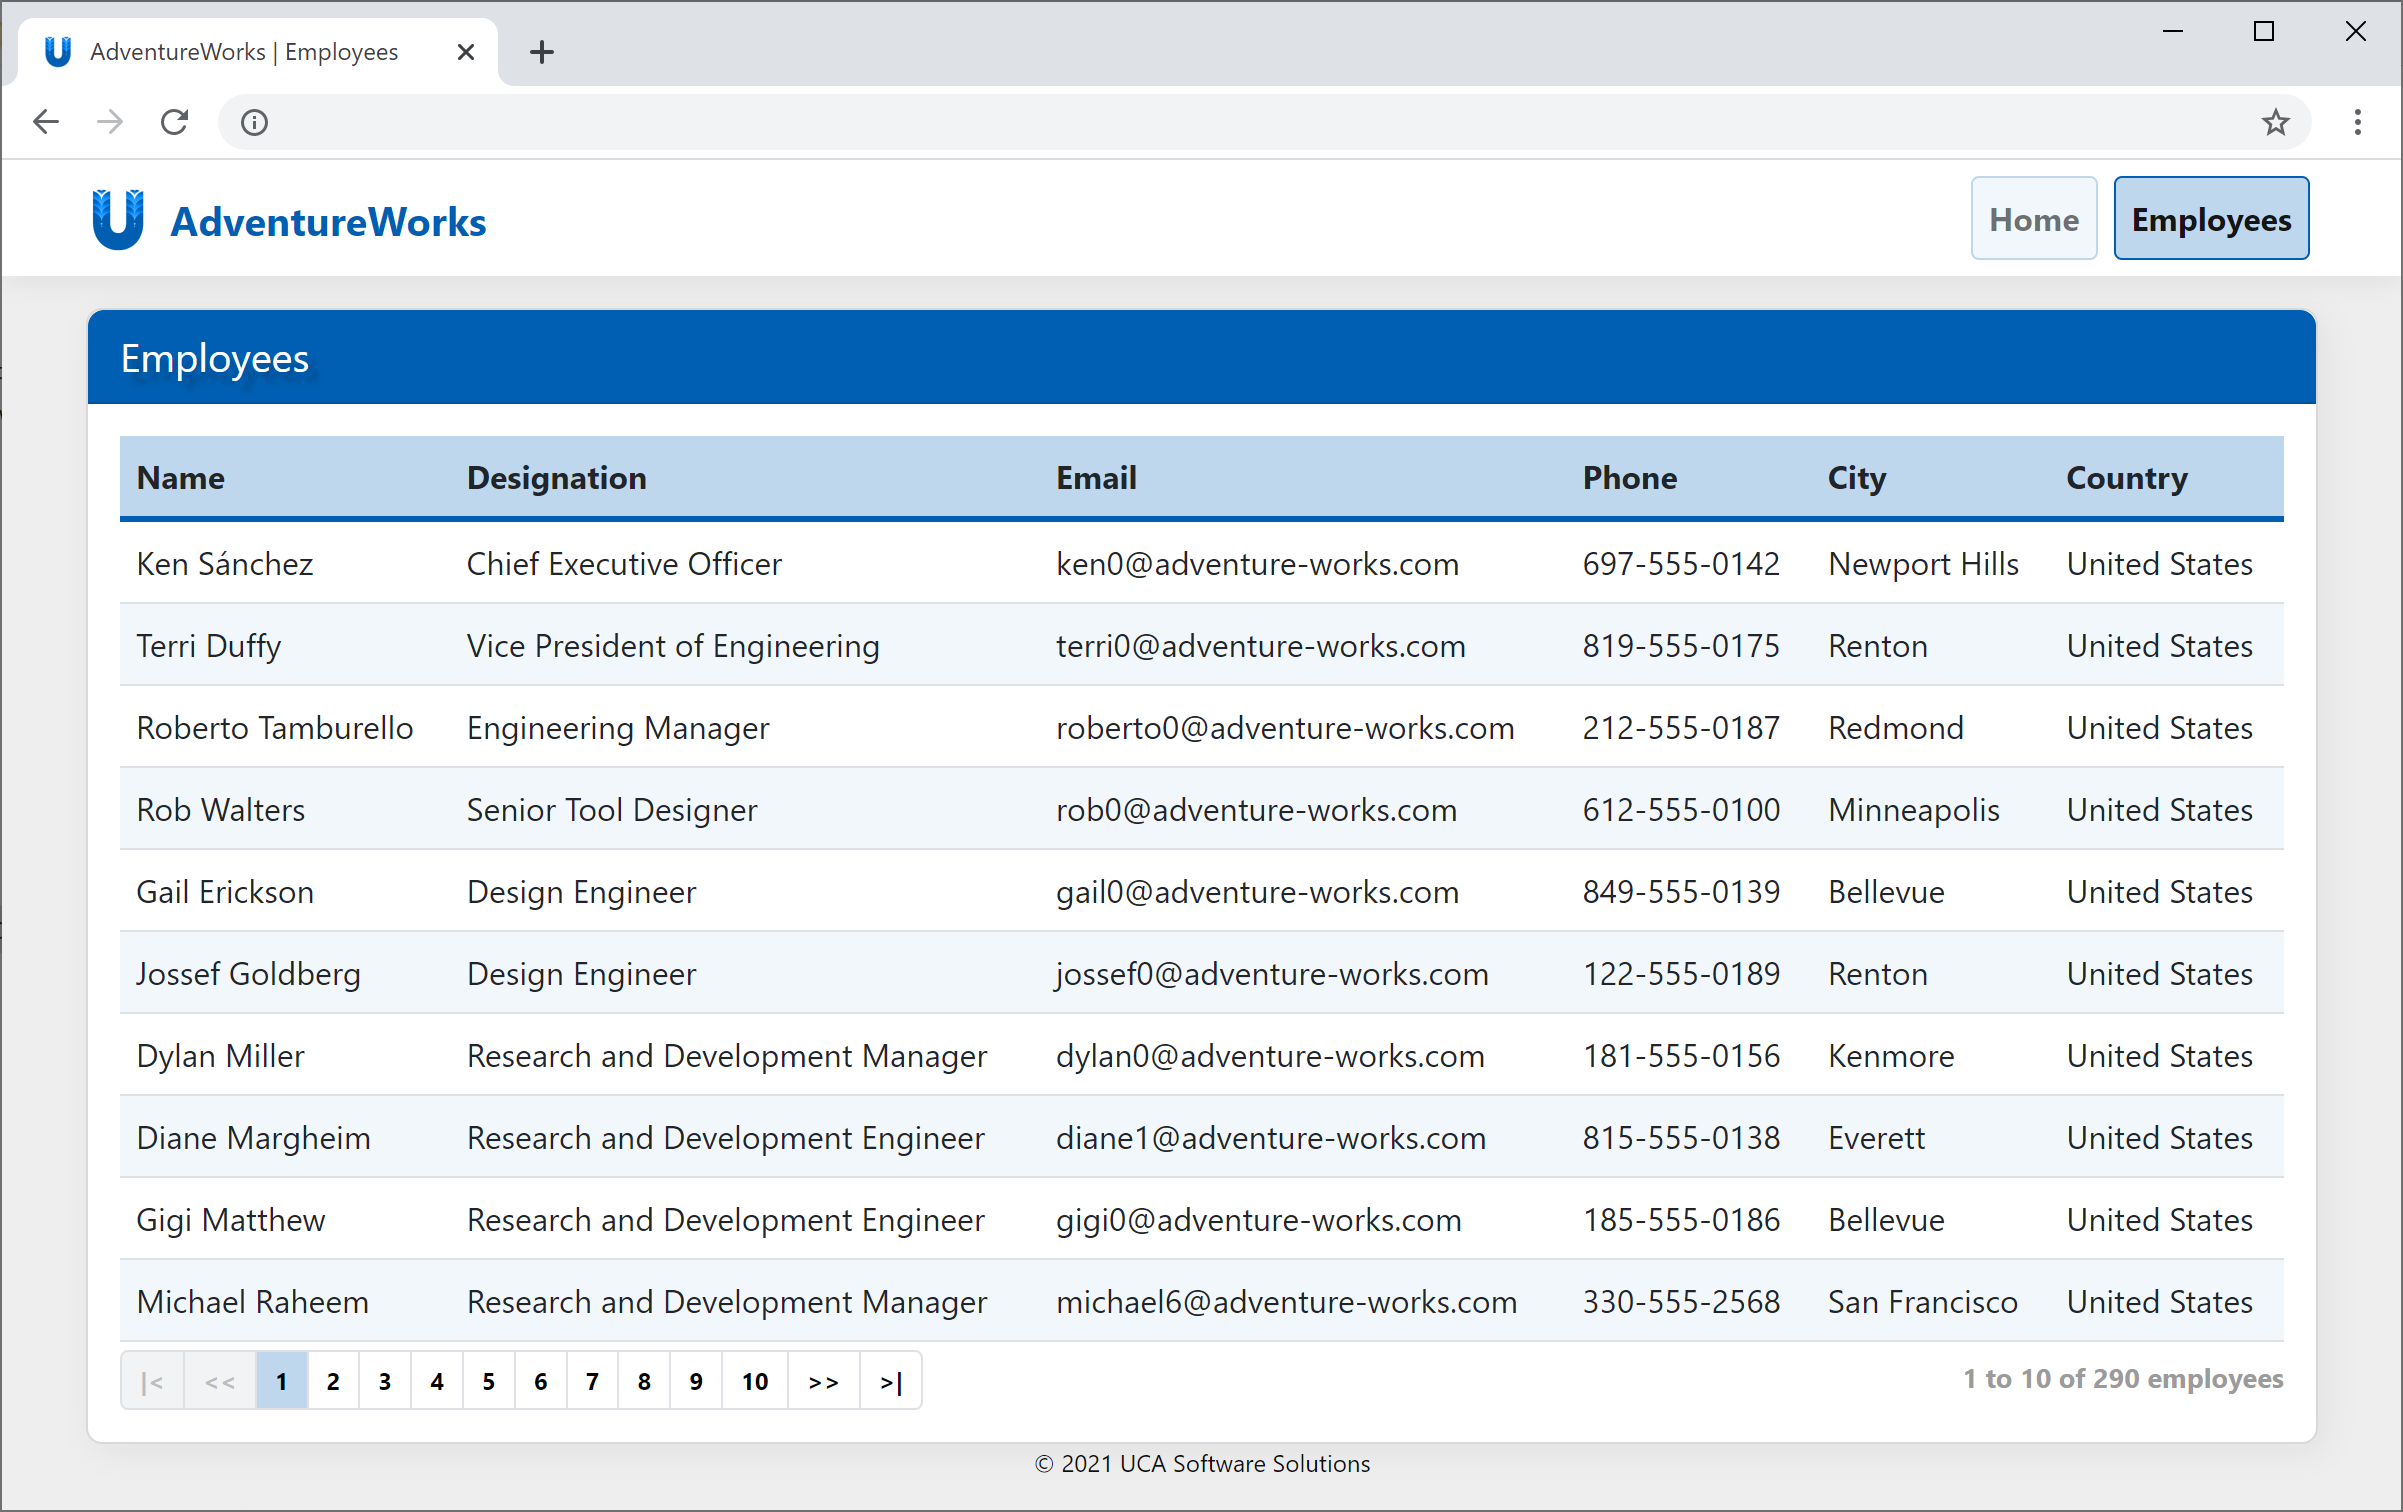
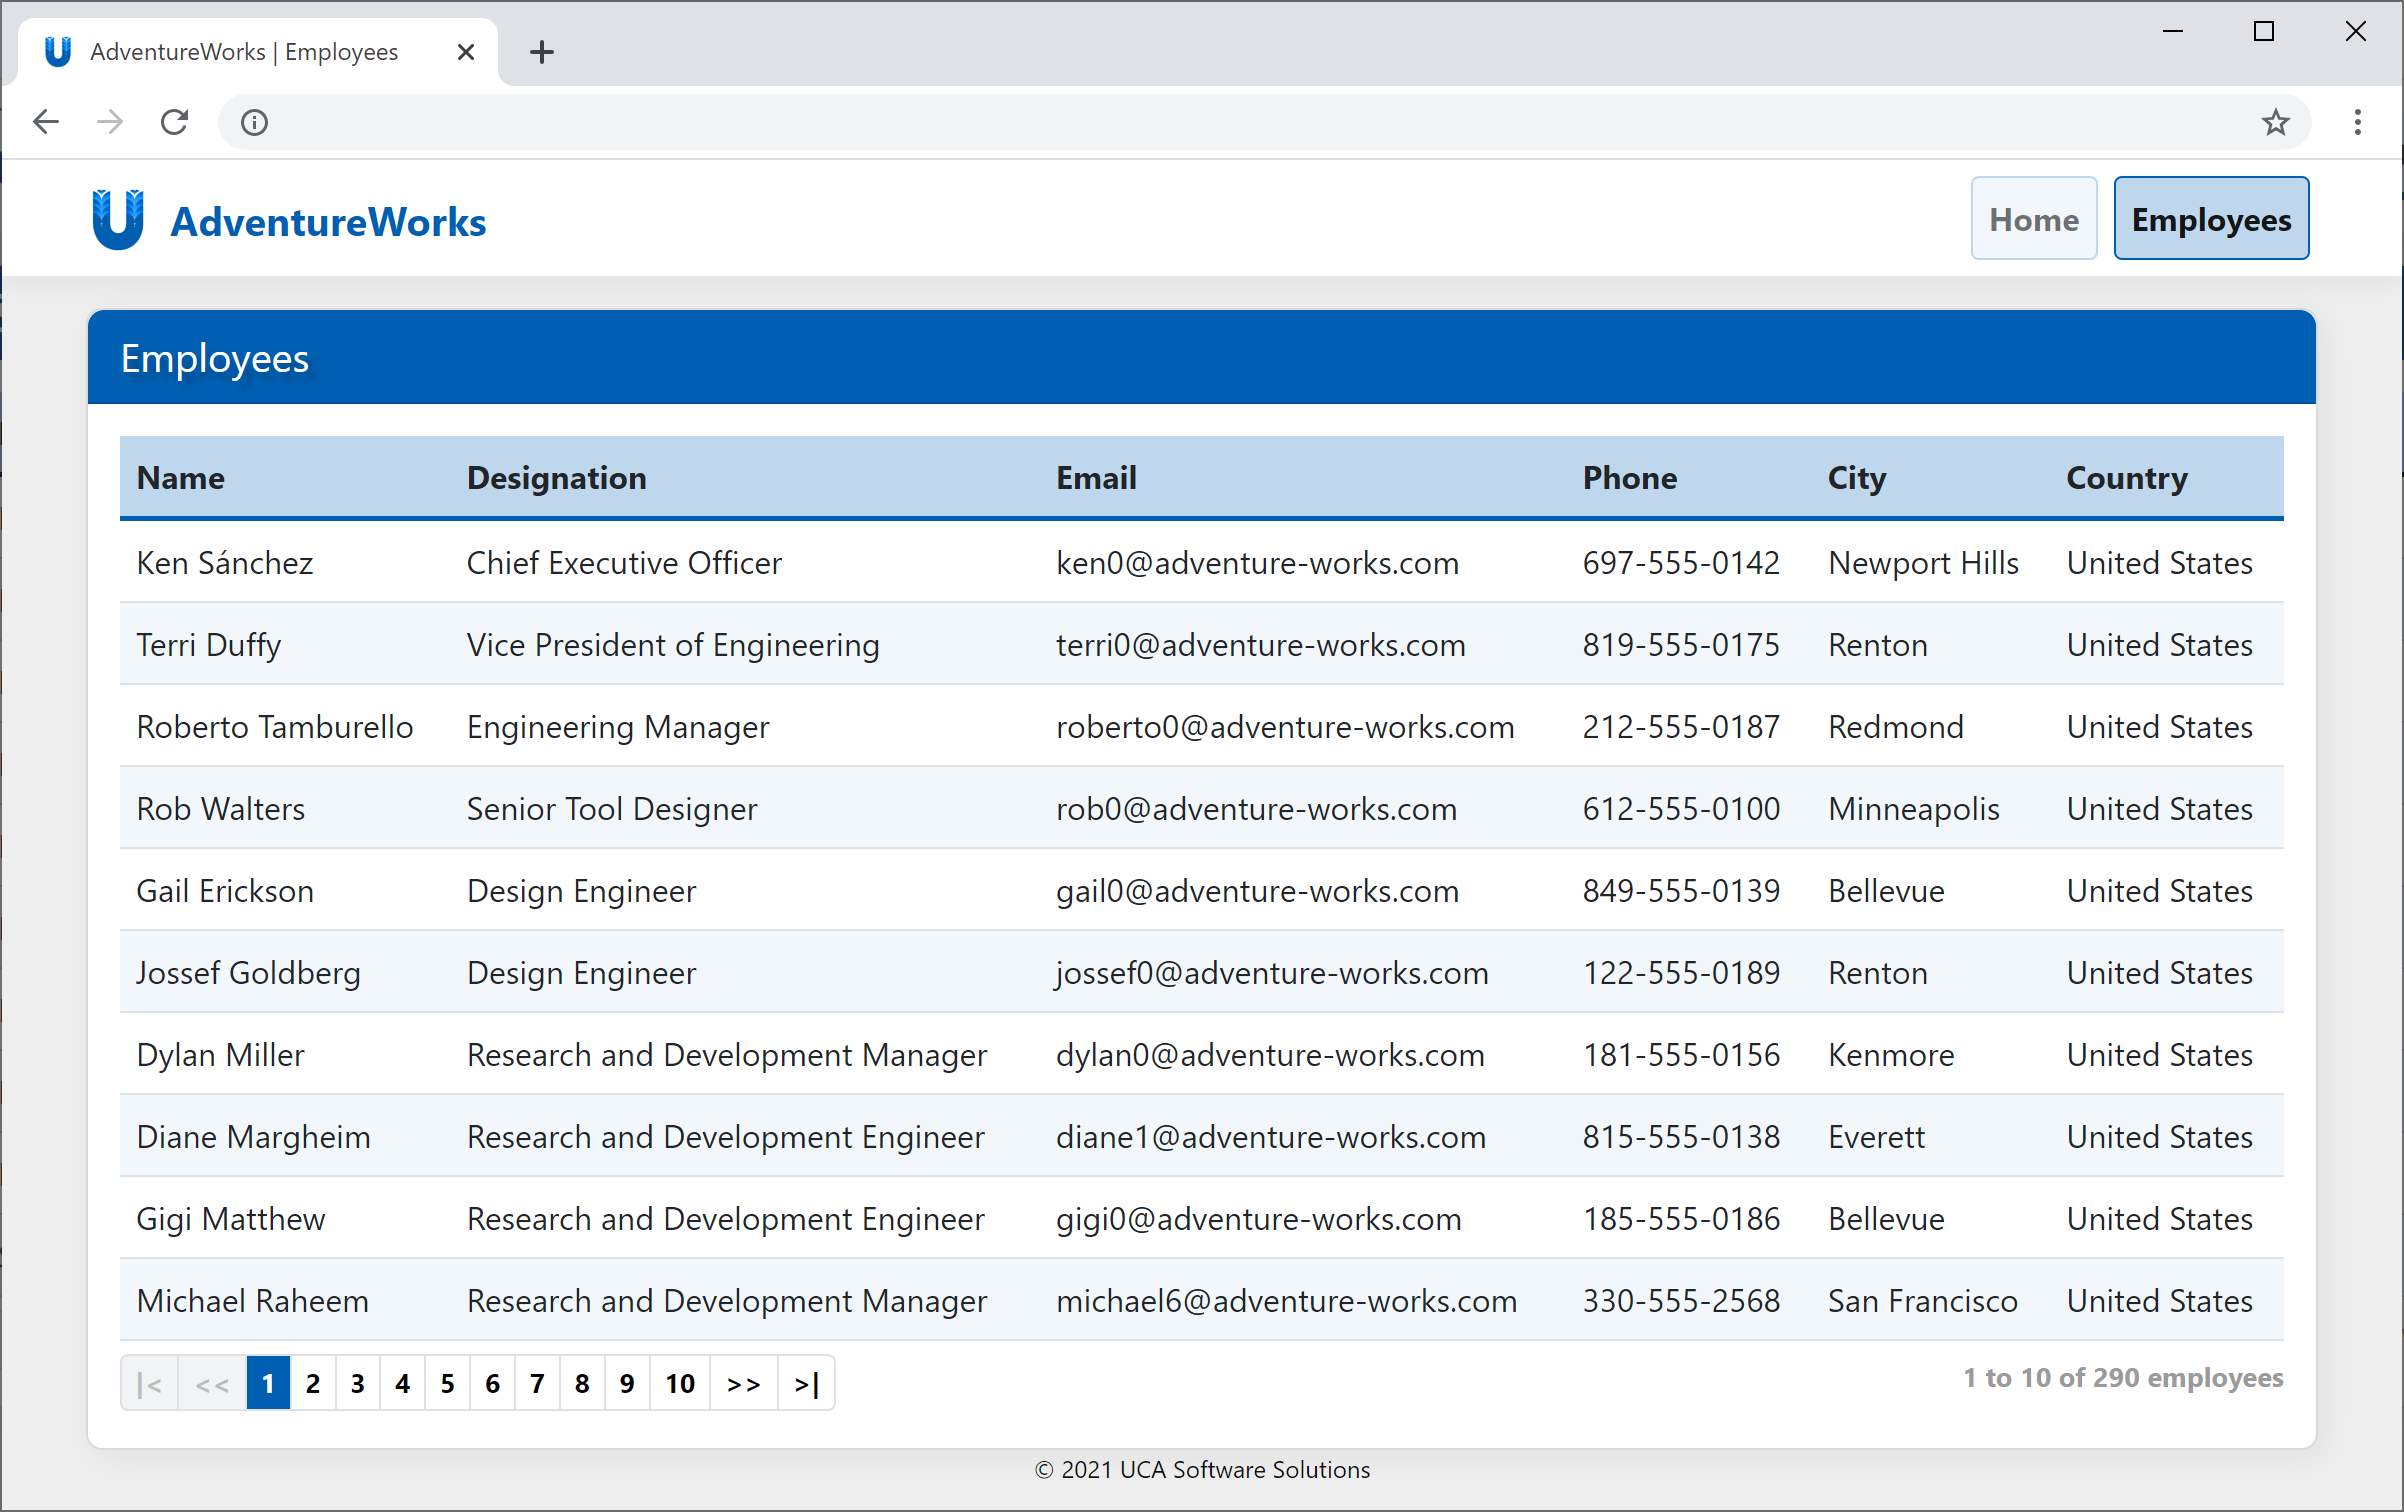
Style updates
CSS Style updates

diff --git a/src/AdventureWorks.Web/ClientApp/src/custom.css b/src/AdventureWorks.Web/ClientApp/src/custom.css
@@ -30,6 +30,7 @@
     --font-weight-semi: normal;
     --size-none: 0;
     --size-min: .15em;
+    --size-near-quart: .2em;
     --size-quart: .25em;
     --size-near-half: .4em;
     --size-half: .5em;
@@ -104,7 +105,7 @@ code {
 
         .contents .card-site .card-header:first-child {
             border-radius: var(--size-near-half) var(--size-near-half) var(--size-none) var(--size-none);
-            text-shadow: var(--size-quart) var(--size-quart) var(--size-min) var(--color-text-shadow);
+            text-shadow: var(--size-near-quart) var(--size-near-quart) var(--size-min) var(--color-text-shadow);
         }
 
     .contents .card-site .card-body {
@@ -128,22 +129,20 @@ code {
 
     .contents .table-site thead tr {
         background-color: var(--color-site-main-medium);
-        border-bottom: .2em solid var(--color-site-main-dark);
+        border-bottom: var(--size-min) solid var(--color-site-main-dark);
     }
 
     .contents .table-site tbody tr:nth-of-type(odd) {
-        background-color: var(--color-white) !important;
+        background-color: var(--color-white);
     }
 
     .contents .table-site tbody tr:nth-of-type(even) {
-        background-color: var(--color-site-main-light) !important;
+        background-color: var(--color-site-main-light);
     }
 
 .contents .pagination-site {
     float: left;
-    font-size: var(--size-3quart);
-    font-weight: var(--font-weight-full);
-    margin-bottom: var(--size-none);
+    margin: var(--size-min) var(--size-none);
 }
 
     .contents .pagination-site .page-item {
@@ -152,9 +151,10 @@ code {
 
         .contents .pagination-site .page-item .page-link {
             color: var(--color-site-main-text-dark);
-            line-height: 1;
-            padding: var(--size-near-3quart) var(--size-3quart) var(--size-near-3quart) var(--size-3quart);
-            word-break: keep-all;
+            font-size: var(--size-near-full);
+            font-weight: var(--font-weight-full);
+            padding: var(--size-quart) var(--size-half) var(--size-quart) var(--size-half);
+            white-space: nowrap;
         }
 
             .contents .pagination-site .page-item .page-link:hover {
@@ -166,8 +166,8 @@ code {
         .contents .pagination-site .page-item.current .page-link,
         .contents .pagination-site .page-item.current .page-link:active,
         .contents .pagination-site .page-item.current .page-link:hover {
-            background-color: var(--color-site-main-medium);
-            color: var(--color-site-main-text-dark);
+            background-color: var(--color-site-main-dark);
+            color: var(--color-white);
             cursor: default;
         }
 
@@ -218,16 +218,17 @@ code {
             li.nav-item a.nav-link.active {
                 background-color: var(--color-site-main-medium);
                 border: 1px solid var(--color-site-main-dark);
+                cursor: default;
             }
 }
 
 @media (max-width: 575px) {
     .navbar-site a.navbar-brand {
-        margin-left: var(--size-quart) !important;
+        margin-left: var(--size-quart)
     }
 
     .navbar-site .navbar-collapse {
-        margin-left: var(--size-half) !important;
+        margin-left: var(--size-half);
     }
 
     .navbar-site .navbar-toggler {
